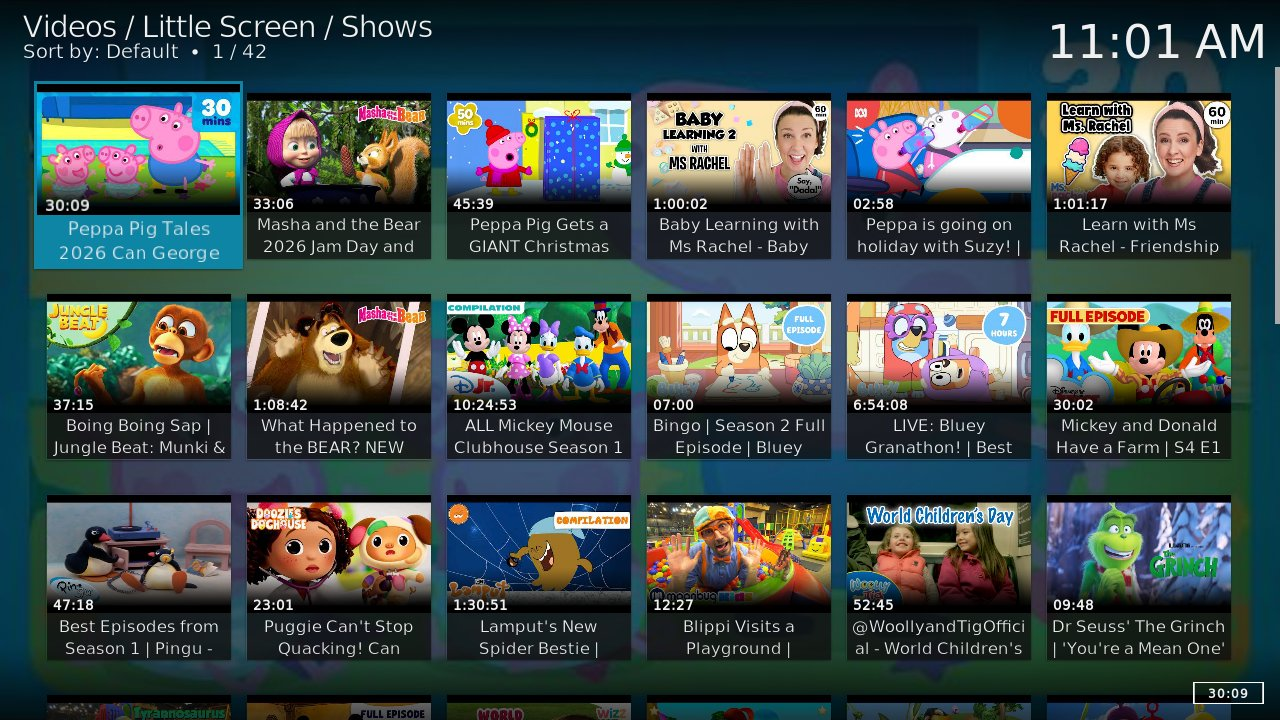
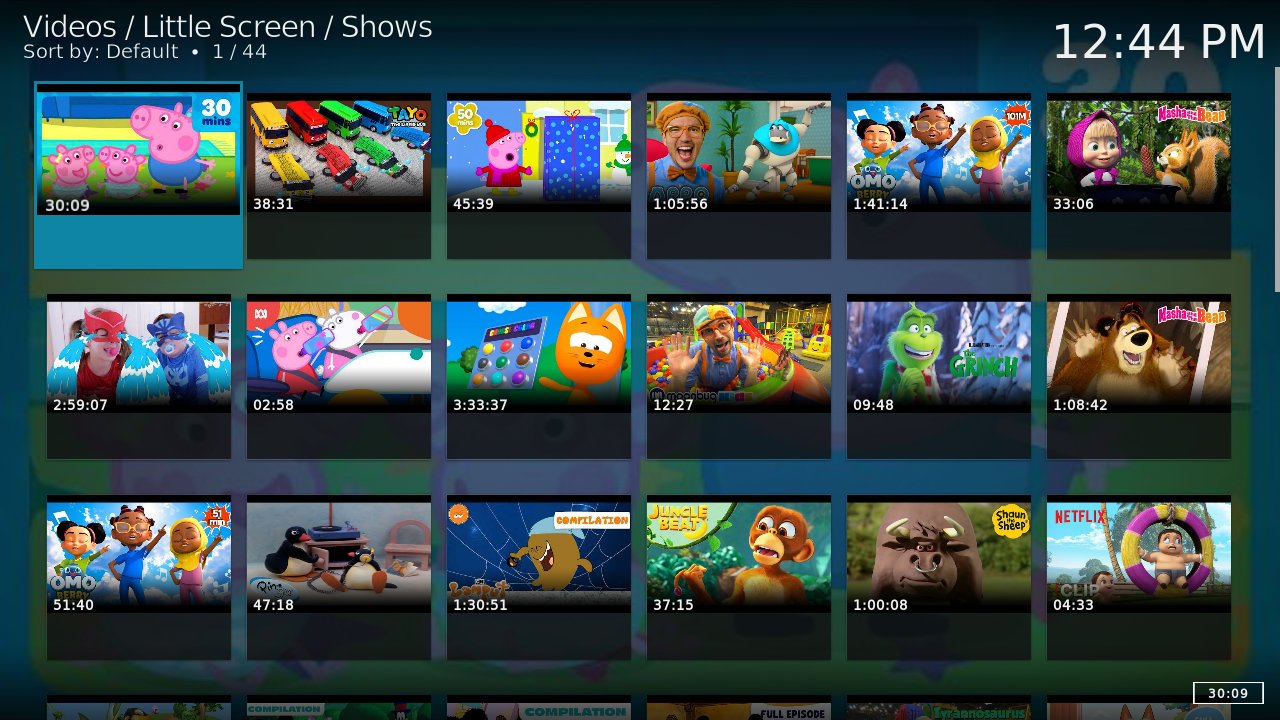
fix(plugin): no video titles in the big-pictures look (#32)
Toddler profiles were documented as "no text" but Estuary's Wall view drew each
video's title. Listed toddler videos now get an empty label and the listing uses
the sort label mask %L, because Kodi's default mask (%T) takes the title from the
info tag, which stays for the player and the autoplay queue. Category and channel
tiles keep their names. Docs, the setting help and the screenshot follow.

Closes #30

diff --git a/scripts/landing.html b/scripts/landing.html
@@ -152,7 +152,7 @@ footer { padding: 2.5rem 0 3rem; color: var(--muted); font-size: .95rem; }
       <div class="card profiles">
         <h3>A profile per child</h3>
         <p>Up to three profiles, each with an age group (4 and under, 5 to 8, 9 to 12) and a
-        look: big pictures without text, or a list with titles and search.</p>
+        look: big pictures without titles, or a list with titles and search.</p>
       </div>
       <div class="card filter">
         <h3>Their language</h3>

diff --git a/tests/test_plugin.py b/tests/test_plugin.py
@@ -126,6 +126,24 @@ def test_category_lists_playable_videos_via_youtube_addon(kodi):
     assert state["content"] == "videos" and state["category"] == "Hudba"
 
 
+def test_toddler_videos_have_no_label(kodi):
+    state = kodi("?action=category&p=1&c=kgQCCAM%253D")
+    videos = [item for _, item, is_folder in state["items"] if not is_folder]
+    assert videos and all(item.label == "" for item in videos)
+    assert all(item.tag.data["title"] for item in videos)  # for the player
+    # Kodi's default label mask (%T) would show the title from the info tag.
+    assert state["label_mask"] == "%L" and state["label2_mask"] == "%D"
+    channels = [item for _, item, is_folder in state["items"] if is_folder]
+    assert all(item.label for item in channels)
+
+
+def test_list_videos_keep_titles_and_default_mask(kodi):
+    state = kodi("?action=category&p=2&c=kgQCCAM%253D")
+    videos = [item for _, item, is_folder in state["items"] if not is_folder]
+    assert all(item.label == item.tag.data["title"] != "" for item in videos)
+    assert state["label_mask"] == ""
+
+
 def test_channels_open_as_folders(kodi):
     state = kodi("?action=category&p=2&c=kgQCCAM%253D")
     folders = [(url, item) for url, item, is_folder in state["items"] if is_folder]
@@ -212,7 +230,8 @@ def test_same_listing_ignores_parameter_order():
 
 
 def labels(state):
-    return [item.label for _, item, _ in state["items"]]
+    """Titles of the listed items (toddler videos have an empty label)."""
+    return [item.tag.data["title"] for _, item, _ in state["items"]]
 
 
 def test_czech_only_hides_slovak_videos(kodi):
@@ -469,8 +488,8 @@ def test_queue_shows_titles_of_listed_videos(kodi):
     first_url, first_item, _ = next(i for i in listing["items"] if not i[2])
     state = kodi("?" + first_url.split("?", 1)[1], settings=AUTOPLAY)
     queued = [item for _, item in state["playlist"]]
-    assert queued[0].label == first_item.label != ""
-    assert queued[0].tag.data["title"] == first_item.label
+    assert queued[0].label == first_item.tag.data["title"] != ""
+    assert queued[0].tag.data["title"] == first_item.tag.data["title"]
     assert queued[0].tag.data["duration"] > 0
     assert all(item.label for item in queued)
 

diff --git a/plugin.video.littlescreen/resources/lib/littlescreen/plugin.py b/plugin.video.littlescreen/resources/lib/littlescreen/plugin.py
@@ -122,7 +122,13 @@ class Plugin:
     def finish(self, profile, title, cache=True):
         xbmcplugin.setPluginCategory(self.handle, title)
         xbmcplugin.setContent(self.handle, "videos")
-        xbmcplugin.addSortMethod(self.handle, xbmcplugin.SORT_METHOD_UNSORTED)
+        if profile is not None and profile.toddler:
+            # Kodi's default label mask is the info tag's title (%T): show the label instead.
+            xbmcplugin.addSortMethod(
+                self.handle, xbmcplugin.SORT_METHOD_UNSORTED, labelMask="%L", label2Mask="%D"
+            )
+        else:
+            xbmcplugin.addSortMethod(self.handle, xbmcplugin.SORT_METHOD_UNSORTED)
         xbmcplugin.endOfDirectory(self.handle, cacheToDisc=cache)
         if xbmc.getSkinDir() == ESTUARY and self.wait_for_container():
             toddler = profile is None or profile.toddler
@@ -368,8 +374,11 @@ class Plugin:
             )
         self.finish(profile, page.title or profile.name)
 
-    def video_item(self, profile, video):
-        item = xbmcgui.ListItem(video.title, offscreen=True)
+    def video_item(self, profile, video, listed=False):
+        """A video's ListItem. Listed for a toddler profile it has no label (big pictures
+        without text); the title stays in the info tag for the player and the queue."""
+        label = "" if listed and profile.toddler else video.title
+        item = xbmcgui.ListItem(label, offscreen=True)
         item.setArt({"thumb": video.thumbnail, "icon": video.thumbnail, "fanart": video.thumbnail})
         tag = item.getVideoInfoTag()
         tag.setMediaType("video")
@@ -381,7 +390,7 @@ class Plugin:
         return item
 
     def add_video(self, profile, video, queue):
-        item = self.video_item(profile, video)
+        item = self.video_item(profile, video, listed=True)
         if profile.autoplay:
             # Not playable itself: Kodi runs it like RunPlugin and play() starts the queue.
             url = self.url(action="play", p=profile.slot, v=",".join(queue))

diff --git a/tests/kodistub.py b/tests/kodistub.py
@@ -169,7 +169,9 @@ def install():
     xbmcplugin.setContent = lambda handle, content: STATE.__setitem__("content", content)
     xbmcplugin.setPluginCategory = lambda handle, cat: STATE.__setitem__("category", cat)
     xbmcplugin.SORT_METHOD_UNSORTED = 0
-    xbmcplugin.addSortMethod = lambda handle, method: STATE.__setitem__("sort", method)
+    xbmcplugin.addSortMethod = lambda handle, method, labelMask="", label2Mask="": STATE.update(
+        sort=method, label_mask=labelMask, label2_mask=label2Mask
+    )
 
     xbmcaddon = types.ModuleType("xbmcaddon")
     xbmcaddon.Addon = Addon

diff --git a/README.md b/README.md
@@ -60,7 +60,7 @@ on, Little Screen asks "Who is watching?"; with one, it opens it straight away.
 | Show this profile | Turns the profile on or off. Profiles 1 and 2 are on at first. |
 | Name | Shown on the profile tile. Empty: the age group ("Ages 4 and under", ...). |
 | Age group | **4 and under**, **5 to 8** or **9 to 12**. YouTube Kids picks the videos for it. |
-| Look | **Big pictures (toddlers)**: large tiles, no text, no search. **List with titles**: titles, channel names, search. |
+| Look | **Big pictures (toddlers)**: large video tiles without titles (categories and channels keep their names), no search. **List with titles**: titles, channel names, search. |
 | Allow search | Search inside the YouTube Kids catalogue for this age (list look only). |
 | Play the next video automatically | See [Autoplay](#autoplay). On at first. |
 

diff --git a/AGENTS.md b/AGENTS.md
@@ -66,7 +66,9 @@ icon and repository name; descriptions may say it shows the YouTube Kids catalog
   `xbmc.python` is 3.0.1 (Kodi 20): the `ListItem.getVideoInfoTag()` setters the add-on uses
   came with Kodi 20; Kodi 21 has 3.0.1 too, Kodi 22 3.1.1.
 - Profiles (up to 3) live in the add-on settings: name (empty = the localised age group), age
-  group, look (big pictures for toddlers = Estuary Wall view 500, no text, no search; or a list = WideList 55, with search).
+  group, look (big pictures for toddlers = Estuary Wall view 500, no search, video tiles without
+  titles: empty ListItem label plus sort label mask `%L`, since Kodi's default mask `%T` shows
+  the info tag's title, which stays for the player; or a list = WideList 55, with search).
 
 ## Commands
 

diff --git a/docs/plans/2026-11-18-plan-1-public-release.md b/docs/plans/2026-11-18-plan-1-public-release.md
@@ -1,6 +1,6 @@
 # Plan 1: public release on GitHub Pages
 
-Status: in progress — Tasks 1–7 and the README screenshots (#25) done; Task 8: tree and history scanned, version 1.0.0, waiting for the owner to make the repository public and switch Pages on (2026-11-19)
+Status: in progress — Tasks 1–7 and the README screenshots (#25) done; big-pictures look without video titles (#30); Task 8: tree and history scanned, version 1.0.0, waiting for the owner to make the repository public and switch Pages on (2026-11-19)
 
 ## Goal
 
